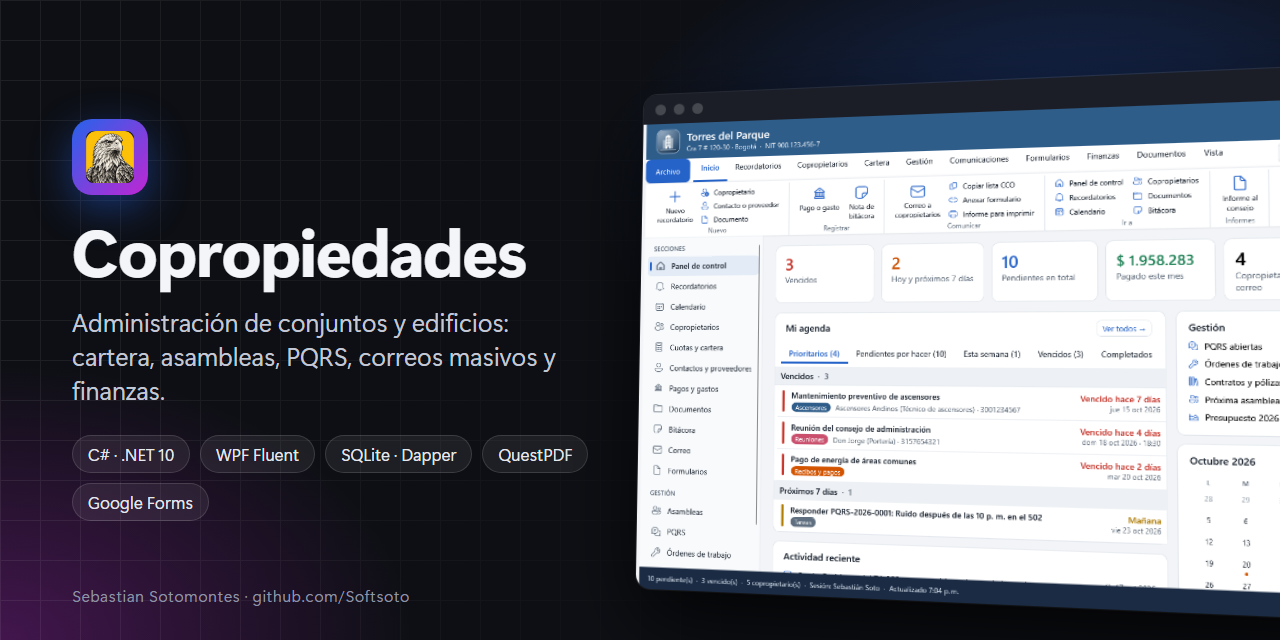
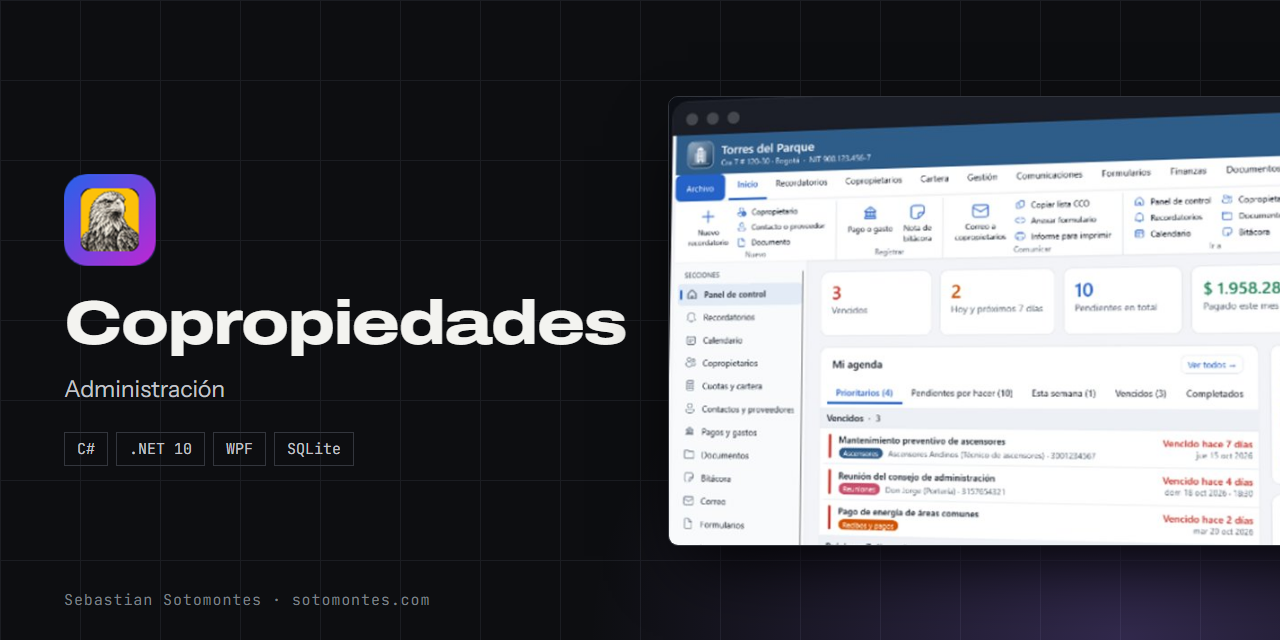
Presentacion de Copropiedades

diff --git a/README.md b/README.md
@@ -1,18 +1,41 @@
-<p align="center"><img src="images/logo.png" alt="" width="96"></p>
-
-<h1 align="center">Copropiedades</h1>
+<p align="center"><img src="images/banner.png" alt="Copropiedades" width="100%"></p>
 
 <p align="center">Administración de conjuntos y edificios: cartera, asambleas, PQRS, contratos, presupuesto y correos masivos.</p>
 
-<p align="center"><a href="https://sotomontes.com/#copropiedades"><b>Ver en sotomontes.com</b></a></p>
+<p align="center"><a href="https://sotomontes.com/#copropiedades"><b>Ver en sotomontes.com</b></a> · <a href="#cómo-se-usa">Cómo se usa</a> · <a href="#cómo-funciona-por-dentro">Cómo funciona</a> · <a href="#novedades">Novedades</a></p>
 
-**Autor:** Sebastian Sotomontes · © 2026
-
-> Esta página es solo una presentación del proyecto. El código y los instaladores son privados.
+| Ficha técnica | |
+|---|---|
+| **Autor** | Sebastian Sotomontes |
+| **Tipo** | Administración |
+| **Plataforma** | Windows 10 y 11 |
+| **Versión** | 2.4.0 |
+| **Estado** | Estable |
+| **Stack** | C# · .NET 10 · WPF · SQLite |
+| **Código** | Privado. Esta página es solo una presentación. |
 
 ---
 
-<p align="center"><img src="images/banner.png" alt="" width="100%"></p>
+## Qué es
+
+Copropiedades es un programa de escritorio para administradores de conjuntos residenciales y edificios en Colombia. Concentra el trabajo del día a día, las finanzas, la gestión que exige la Ley 675 de 2001 y las comunicaciones con los residentes, y permite llevar varias copropiedades a la vez.
+
+<p align="center"><img src="images/captura.jpg" alt="Captura de Copropiedades" width="100%"></p>
+
+## Novedades
+
+- Centro de gestión con indicadores, agenda de hoy y agenda global.
+- Copias de seguridad cifradas con verificación y restauración segura.
+- Auditoría encadenada, anulación de movimientos y recibos únicos.
+
+## Cómo se usa
+
+1. Crea una copropiedad con sus datos y su estructura de torres y apartamentos.
+2. Registra copropietarios, contactos y proveedores. Cada copropiedad se abre en su propia ventana.
+3. Revisa **Inicio** cada día: ahí están los recordatorios vencidos, lo prioritario y la agenda.
+4. En **Cuotas y cartera** lleva la mora por unidad y emite recibos de caja con el valor en letras. Importa extractos bancarios y compara presupuesto contra ejecutado.
+5. Para una asamblea, envía la convocatoria, controla el quórum por coeficientes, registra poderes y votaciones, y genera el acta en PDF.
+6. Gestiona **PQRS**, órdenes de trabajo y contratos, y envía correos masivos o formularios de Google a los residentes.
 
 ## Funciones
 
@@ -24,8 +47,55 @@
 - **Órdenes de trabajo, contratos y pólizas** con recordatorio de renovación.
 - **Correo masivo** en copia oculta y formularios de Google por copropiedad.
 
-## Tecnologías
+## Detalles
 
-C# · .NET 10 · WPF · SQLite
+- PQRS con radicado, plazo de 15 días hábiles y respuesta por correo.
+- Órdenes de trabajo con fotos, calificación y ranking de proveedores.
+- Correo masivo siempre en copia oculta, con plantillas y envío programado.
+- Bandeja de entrada por copropiedad.
+- Informe mensual al consejo en PDF.
+- Usuarios con roles y permisos por copropiedad.
+- Copias de seguridad automáticas a Drive u OneDrive.
+
+## Privacidad y seguridad
+
+Incluye autorización y baja de copropietarios según la Ley 1581 de 2012 (habeas data). Las contraseñas de usuario se protegen con Argon2id.
+
+## Cómo funciona por dentro
+
+### Arquitectura
+
+```mermaid
+flowchart LR
+  subgraph UI["WPF (.NET 10, Fluent)"]
+    LOGIN["LoginWindow"] --> MAIN["MainWindow<br/>Inicio"]
+    MAIN --> CPW["CopropiedadWindow<br/>cinta + secciones"]
+    CPW --> MOD["Vistas/Modulos<br/>Asambleas · PQRS · Órdenes<br/>Contratos · Presupuesto"]
+    CPW --> RED["RedactarWindow"]
+  end
+  subgraph SRV["Servicios/"]
+    DB["Db<br/>Dapper + SQLite"]
+    MAIL["Correo MailKit<br/>SMTP · Bandeja IMAP"]
+    PDF["Pdf<br/>QuestPDF"]
+    NOT["Notificaciones<br/>toasts + envíos programados"]
+    LIC["Licencia<br/>ECDSA P-256"]
+    BK["Respaldo"]
+  end
+  UI --> SRV
+  MAIL --> SMTP[("Gmail · Outlook · Yahoo")]
+  SRV --> GAS["google/Code.gs<br/>puente Apps Script"] --> FORMS[("Google Forms")]
+```
+
+```
+CopropiedadesApp/
+├── Vistas/        ventanas y módulos (Inicio, Copropiedad, Redactar, Cuentas, Formularios, Modulos/…)
+├── Servicios/     Db, Cartera, Gestion, Pdf, Bandeja, Notificaciones, Permisos, Licencia, Respaldo, TextoRico, Avatares, Graficos…
+├── Temas/         Claro.xaml, Oscuro.xaml (todos los colores por DynamicResource)
+├── google/        Code.gs: puente de Apps Script para Google Forms
+├── Ayuda/         guía de usuario (F1) con capturas
+└── Instalador/    Inno Setup (Copropiedades.iss, crear_instalador.ps1)
+```
+
+---
 
 <sub>© 2026 Sebastian Sotomontes. Todos los derechos reservados.</sub>
